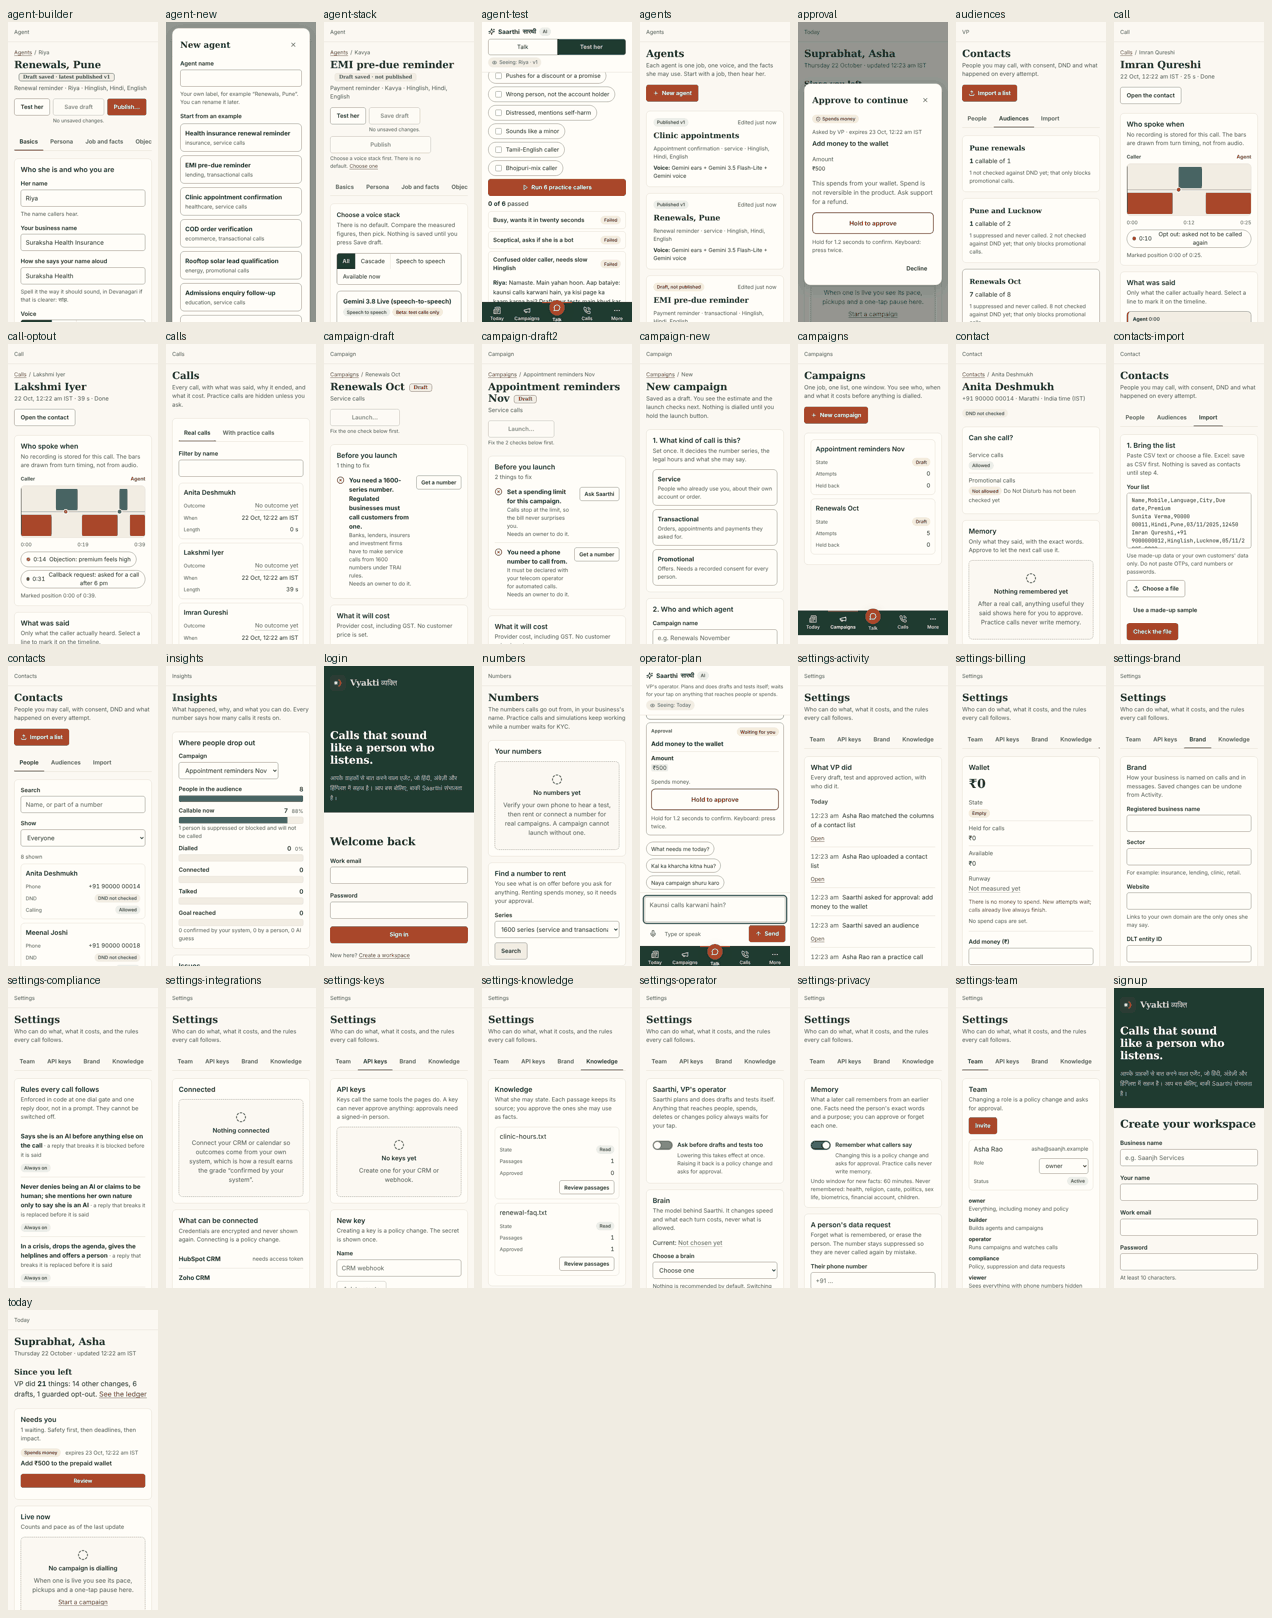
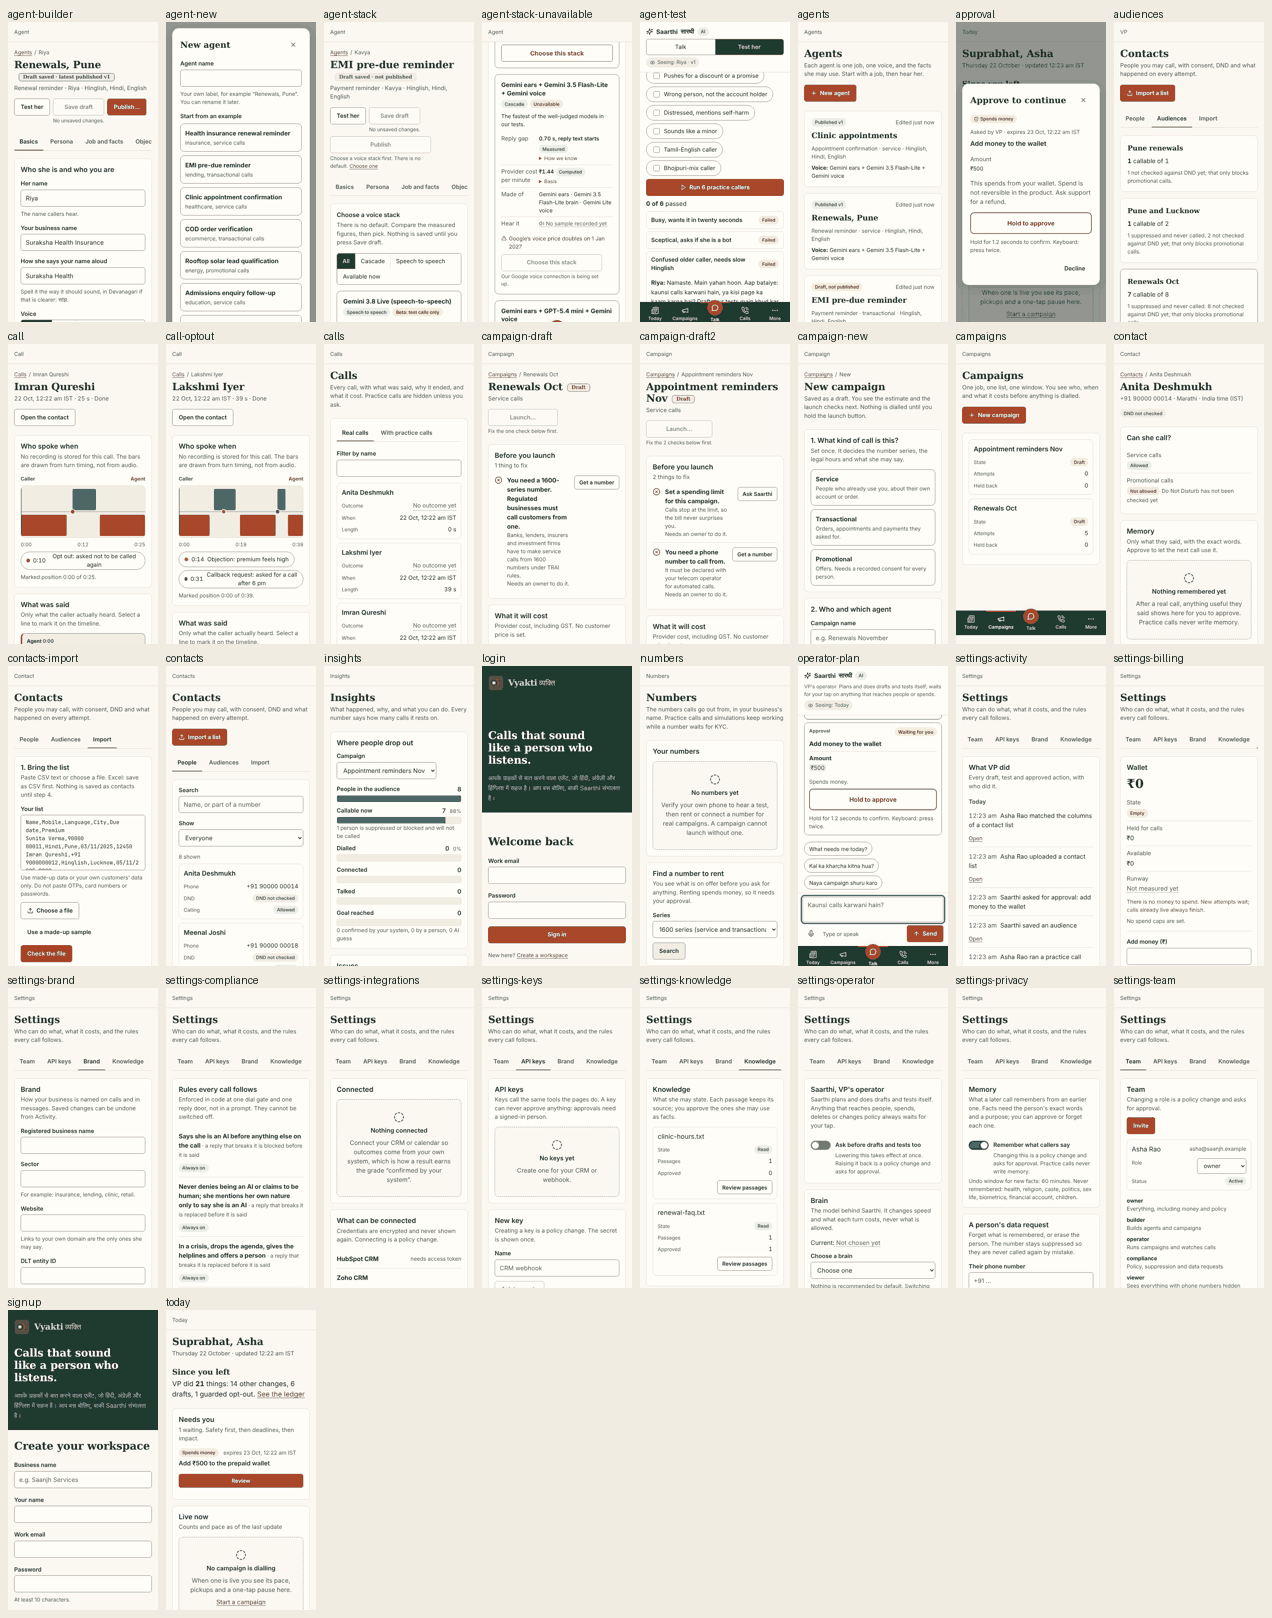
web: stack picker shows the voice runtime's availability (Unavailable with its reason, cannot be chosen; unknown shows nothing); dev health hook and e2e covering all three states
Claude-Session: https://claude.ai/code/session_014EmCLozX1VcXabqUjBazhN

diff --git a/product/web/src/stack-picker.tsx b/product/web/src/stack-picker.tsx
@@ -28,9 +28,27 @@ function usePrices(): Record<string, Price> {
   return p;
 }
 
+/** What the voice runtime says about each stack, from stack.list. Unknown (no runtime has reported, or the call failed) shows nothing:
+ *  a stack is never claimed available on that evidence. */
+type Avail = { state: 'available' | 'unavailable' | 'unknown'; reason: string | null };
+function useAvailability(): Record<string, Avail> {
+  const { hasTool } = useApp();
+  const [a, setA] = useState<Record<string, Avail>>({});
+  useEffect(() => {
+    if (!hasTool('stack.list')) return;
+    let live = true;
+    api.run<{ stacks: { id: string; availability?: Avail }[] }>('stack.list', {})
+      .then(r => { if (live) setA(Object.fromEntries((r.stacks ?? []).map(x => [x.id, x.availability ?? { state: 'unknown' as const, reason: null }]))); })
+      .catch(() => { /* unknown stays unknown */ });
+    return () => { live = false; };
+  }, [hasTool]);
+  return a;
+}
+
 export function StackPicker({ value, onChange, locked, cannotClear }: { value: string | null; onChange: (id: string | null) => void; locked?: string; cannotClear?: boolean }) {
   const [filter, setFilter] = useState<'all' | 'cascade' | 's2s' | 'available'>('all');
   const prices = usePrices();
+  const avail = useAvailability();
   const list = useMemo(() => STACKS.filter(s => filter === 'all' || (filter === 'available' ? s.status === 'available' : s.kind === filter)), [filter]);
   const chosen = STACKS.find(s => s.id === value);
   return (
@@ -46,15 +64,17 @@ export function StackPicker({ value, onChange, locked, cannotClear }: { value: s
         </div>
       </div>
       {locked && <p className="hint hint-bad">{locked}</p>}
+      {chosen && avail[chosen.id]?.state === 'unavailable' && <p className="hint hint-bad" role="status">The stack you chose is unavailable right now. {avail[chosen.id].reason} A test never falls back to another stack.</p>}
       <ul className="stacks" aria-label="Voice stacks">
-        {list.map(s => <StackCard key={s.id} s={s} selected={s.id === value} price={prices[s.id]} onPick={() => onChange(s.id)} />)}
+        {list.map(s => <StackCard key={s.id} s={s} selected={s.id === value} price={prices[s.id]} avail={avail[s.id]} onPick={() => onChange(s.id)} />)}
       </ul>
       <p className="small muted">Reply gap is the time from the caller finishing to her first audio, measured from an India vantage unless the source says otherwise. “Computed” means arithmetic on measured parts. “Vendor says” is never shown beside a measured figure as if it were equal.</p>
     </div>
   );
 }
 
-function StackCard({ s, selected, price, onPick }: { s: VoiceStack; selected: boolean; price?: Price; onPick: () => void }) {
+function StackCard({ s, selected, price, avail, onPick }: { s: VoiceStack; selected: boolean; price?: Price; avail?: Avail; onPick: () => void }) {
+  const down = avail?.state === 'unavailable';
   const c = s.components;
   return (
     <li className={`stackcard${selected ? ' sel' : ''}`}>
@@ -62,11 +82,13 @@ function StackCard({ s, selected, price, onPick }: { s: VoiceStack; selected: bo
         <div className="grow"><h4>{s.label}</h4>
           <div className="row" style={{ gap: 6, marginTop: 6 }}>
             <Chip tone="peacock">{s.kind === 's2s' ? 'Speech to speech' : 'Cascade'}</Chip>
-            <Chip tone={s.status === 'available' ? 'leaf' : 'marigold'} title={s.status === 'beta' ? BETA_REASON : undefined}>{s.status === 'available' ? 'Available' : 'Beta: test calls only'}</Chip>
+            {!(down && s.status === 'available') && <Chip tone={s.status === 'available' ? 'leaf' : 'marigold'} title={s.status === 'beta' ? BETA_REASON : undefined}>{s.status === 'available' ? 'Available' : 'Beta: test calls only'}</Chip>}
+            {down && <Chip tone="brick">Unavailable</Chip>}
           </div>
         </div>
       </div>
       <p className="small">{s.note}</p>
+      {down && selected && avail?.reason && <p className="risk small"><AlertTriangle size={14} aria-hidden /> {avail.reason}</p>}
       <dl className="kv small">
         <div><dt>Reply gap</dt><dd><Figure m={{ value: s.replyGap.value, grade: s.replyGap.grade, source: s.replyGap.source }} /><details className="how"><summary>How we know</summary><p>{s.replyGap.source}</p></details></dd></div>
         <div><dt>Provider cost per minute</dt><dd>{!price || price.state === 'loading' ? <span className="muted">Checking…</span> : price.perMinuteInrMilli != null ? <><span className="fig-v tnum">{inr(price.perMinuteInrMilli, { paise: true })}</span> <Chip tone="peacock">Computed</Chip><details className="how"><summary>Basis</summary><p>{price.basis}</p></details></> : <><NotMeasured />{price.basis && <details className="how"><summary>Why</summary><p>{price.basis}</p></details>}</>}</dd></div>
@@ -75,7 +97,7 @@ function StackCard({ s, selected, price, onPick }: { s: VoiceStack; selected: bo
       </dl>
       {s.risks?.map(r => <p key={r} className="risk small"><AlertTriangle size={14} aria-hidden /> {r}</p>)}
       <div className="stackcard-foot">
-        <button type="button" className={`pickbtn${selected ? ' on' : ''}`} aria-pressed={selected} onClick={onPick}>{selected ? <><Check size={16} aria-hidden /> Chosen</> : 'Choose this stack'}</button>
+        {down && !selected ? <Btn disabled reason={avail?.reason ?? 'This stack is unavailable right now.'}>Choose this stack</Btn> : <button type="button" className={`pickbtn${selected ? ' on' : ''}`} aria-pressed={selected} onClick={onPick}>{selected ? <><Check size={16} aria-hidden /> Chosen</> : 'Choose this stack'}</button>}
       </div>
     </li>
   );

diff --git a/product/web/dev/serve.ts b/product/web/dev/serve.ts
@@ -38,3 +38,20 @@ setFakeLlm((req: LlmRequest) => {
   return reply('Namaste. Main yahan hoon. Aap bataiye: kaunsi calls karwani hain, ya kisi page ka kaam karna hai? Drafts aur tests main khud kar leta hoon; jo logon tak pahunchta hai ya paise lagata hai, wo aapke tap ke baad.');
 });
 import('../../server/main.ts');
+
+// DEV ONLY: a tiny control port so an e2e flow can set what the fake voice runtime reports about stacks (POST a JSON health body, or null).
+import { createServer } from 'node:http';
+import { runtime, FakeRuntime } from '../../server/runtime-client.ts';
+import { forgetRuntimeHealth } from '../../server/modules/agents/index.ts';
+const hook = createServer((req, res) => {
+  let body = '';
+  req.on('data', c => { body += c; });
+  req.on('end', () => {
+    const rt = runtime();
+    if (req.method === 'POST' && rt instanceof FakeRuntime) {
+      try { rt.healthReply = JSON.parse(body || 'null'); forgetRuntimeHealth(); res.writeHead(204).end(); } catch { res.writeHead(400).end(); }
+    } else res.writeHead(404).end();
+  });
+});
+hook.on('error', e => console.error('health hook not listening:', (e as Error).message));   // never take the dev server down
+hook.listen(Number(process.env.HEALTH_HOOK_PORT ?? Number(process.env.PORT ?? 8799) + 1), '127.0.0.1');
